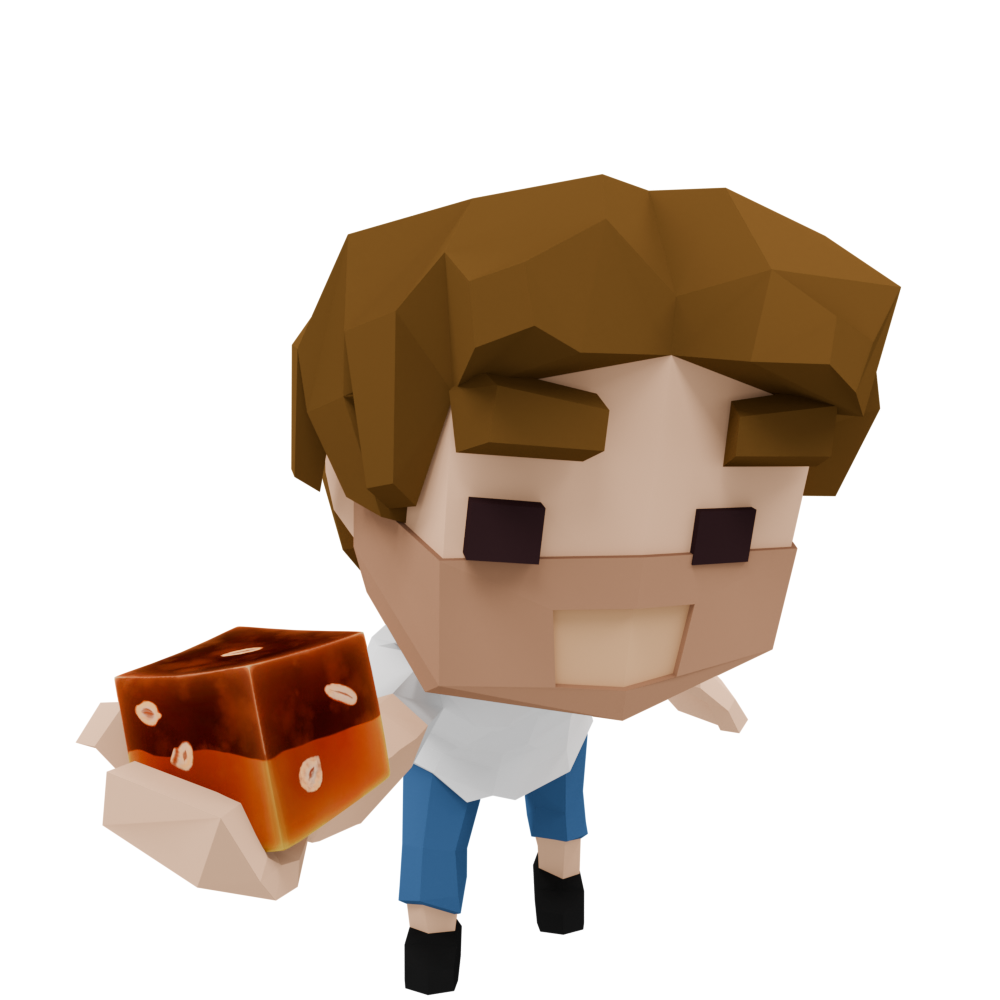
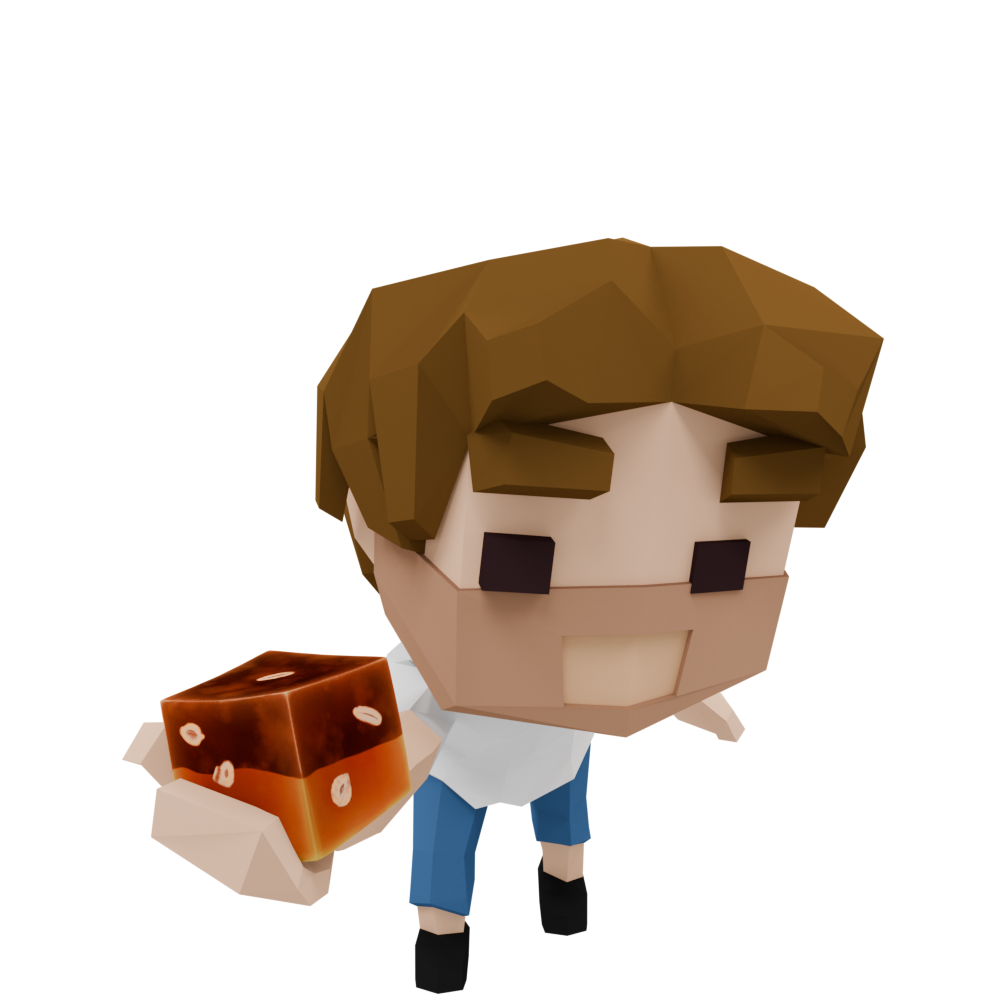
lukas poses

Changed region(s): [[0.062, 0.155, 0.899, 1.0]]

diff --git a/about/index.html b/about/index.html
@@ -38,15 +38,15 @@
                         <div class="member-img" id="member-jonas">
                             <div class="member-hover-container" data-member="jonas"></div>
                             <img class="member default" data-member="jonas" src="../img/team/jonas_cutout.png" alt="">
-                            <img class="member hover" data-member="jonas" src="../img/team/testgif.gif" alt="">
+                            <img class="member hover" data-member="jonas" src="../img/team/jonas_hover.png" alt="">
                             <img class="member active" data-member="jonas" src="../img/team/jonas_click.png" alt="">
                         </div>
                         
                         <div class="member-img" id="member-lukas">
                             <div class="member-hover-container" data-member="lukas"></div>
                             <img class="member default" data-member="lukas" src="../img/team/lukas_cutout.png" alt="">
-                            <img class="member hover" data-member="lukas" src="../img/team/lukas_cutout.png" alt="">
-                            <img class="member active" data-member="lukas" src="../img/team/lukas_cutout.png" alt="">
+                            <img class="member hover" data-member="lukas" src="../img/team/lukas_hover.png" alt="">
+                            <img class="member active" data-member="lukas" src="../img/team/lukas_click.png" alt="">
                         </div>
 
                         <div class="member-img" id="member-julien">

diff --git a/styles/about.css b/styles/about.css
@@ -65,7 +65,7 @@ h2 {
 
 .member-hover-container:hover ~ img,
 #team-image img.member.highlight {
-    filter: drop-shadow(3px 3px 0 var(--ml-stick-color)) drop-shadow(3px -3px 0 var(--ml-stick-color)) drop-shadow(-3px 3px 0 var(--ml-stick-color)) drop-shadow(-3px -3px 0 var(--ml-stick-color));
+    filter: drop-shadow(2px 2px 0 var(--ml-stick-color)) drop-shadow(2px -2px 0 var(--ml-stick-color)) drop-shadow(-2px 2px 0 var(--ml-stick-color)) drop-shadow(-2px -2px 0 var(--ml-stick-color));
     z-index: 4;
 }
 .member-hover-container:hover ~ img {
